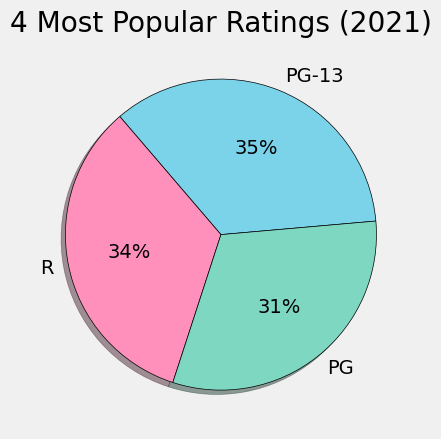
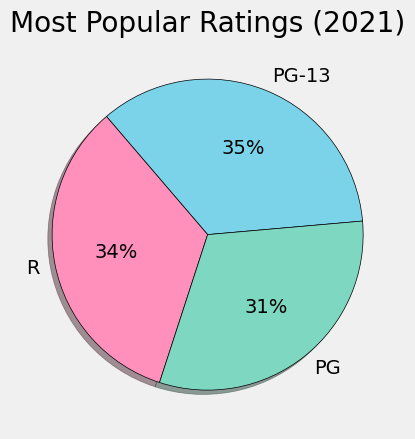
Cutoff changed for All Movies pie chart

diff --git a/movie_results.py b/movie_results.py
@@ -188,7 +188,10 @@ def ratings(inputFilePath, df, year):
     newRatings = []
     newCounts = []
     for idx, count in enumerate(counts):
-        if count > 5:
+        cutoff = 5
+        if year == "All":
+            cutoff = 15
+        if count > cutoff:
             newRatings.append(ratings[idx])
             newCounts.append(counts[idx])
     plt.figure()
@@ -202,7 +205,7 @@ def ratings(inputFilePath, df, year):
         startangle=5,
         autopct="%1.0f%%",
     )
-    plt.title(f"4 Most Popular Ratings ({year})")
+    plt.title(f"Most Popular Ratings ({year})")
     plt.savefig(f"Graphs/{year}_Graphs" + "/rating_pie_chart.png", bbox_inches="tight")
     # plt.show()
     plt.close()
